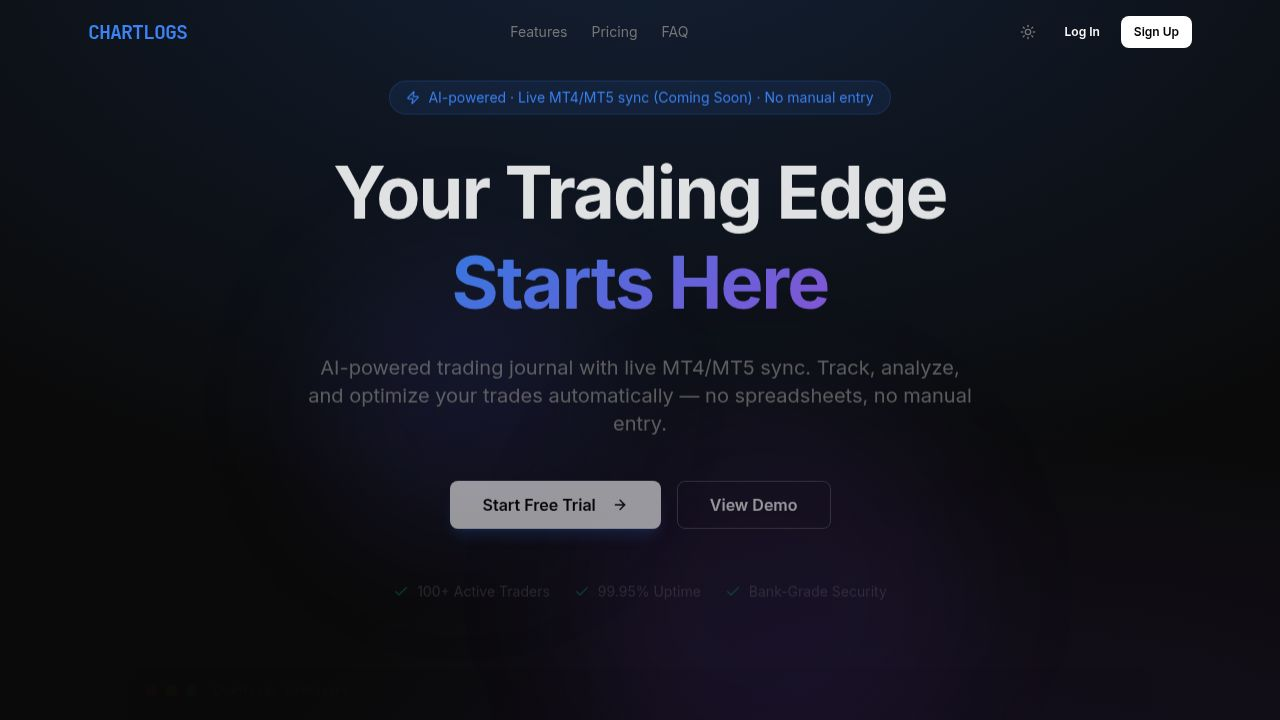
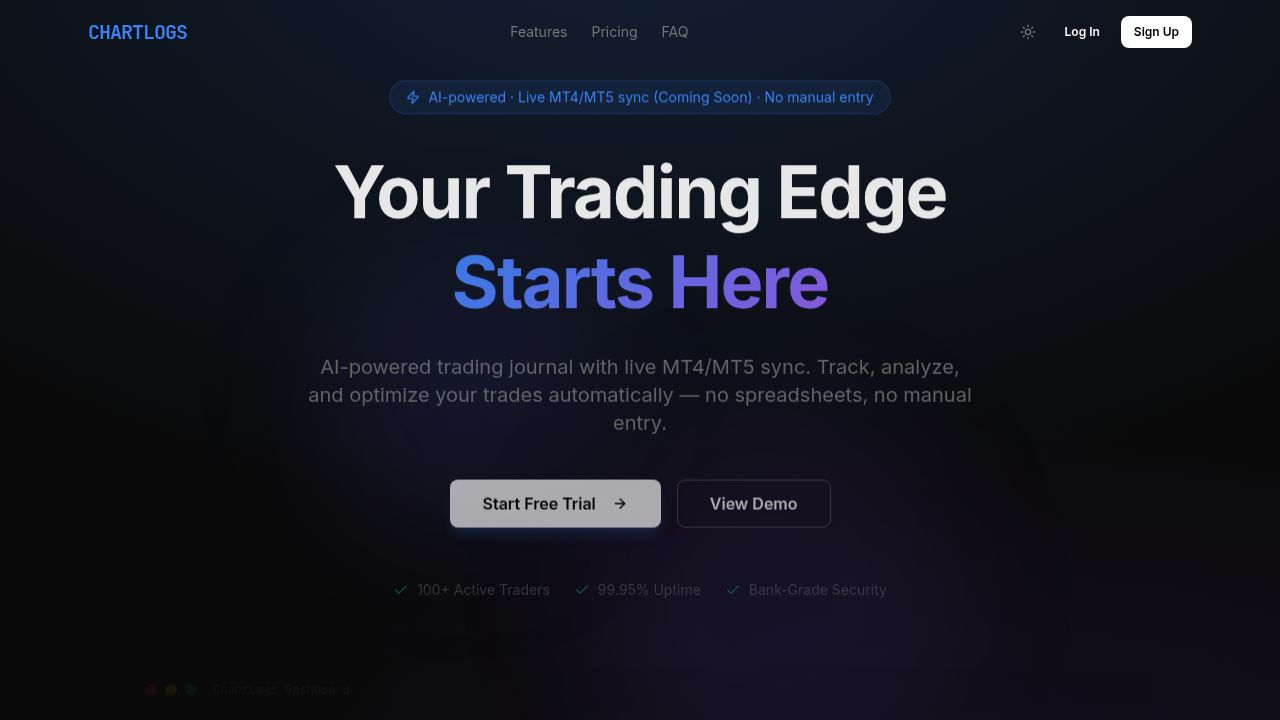
Redesign Analytics page (Task #44)
- Replaced the period dropdown with a segmented time-range control (Today/7D/30D/3M/1Y/All) using the existing Tabs component.
- Added a Winners/Losers/All outcome filter wired to the already-existing `filter` query param on GET /analytics/performance (no backend changes needed — schema, Zod validation, and OpenAPI spec already supported it).
- Restructured the top of the page into 4 prominent stat cards (Total P&L, Win Rate, Profit Factor, Expectancy) with larger typography.
- Consolidated remaining metrics (Winners, Losers, Breakeven, Total/Long/Short Trades, Max Drawdown, Max Consecutive Losses, Max DD Duration) into a compact quick-stats grid below the top cards.
- Built a new EquityDrawdownChart component: a single chart card with a toggle between "Equity Curve" (area chart) and "Drawdown" (area chart) views, using the equityCurve/drawdown arrays already returned by the performance endpoint.
- Preserved all other existing sections unchanged: by symbol, by day, by tag, by emotion, by strategy, by session, checklist compliance, win/loss/breakeven donut, R-multiples, streak tracker, profit factor trend, hour-of-day heatmap, and the AI Pattern Insights panel.

Verification:
- `pnpm --filter @user/chartlogs run typecheck` passes.
- Full `pnpm run typecheck` passes for all artifacts except a pre-existing, unrelated failure in `scripts/src/update-demo-password.ts` (missing @user for bcryptjs/pg) — not touched by this task.
[…]

diff --git a/artifacts/chartlogs/src/pages/Analytics.tsx b/artifacts/chartlogs/src/pages/Analytics.tsx
@@ -25,6 +25,7 @@ import {
   getGetAnalyticsStreaksQueryKey,
   getGetAnalyticsProfitFactorTrendQueryKey,
   GetPerformancePeriod,
+  GetPerformanceFilter,
   GetAnalyticsByDayPeriod,
   GetAnalyticsBySymbolPeriod,
   useGetAiStatus,
@@ -37,7 +38,7 @@ import { useQueryClient } from "@tanstack/react-query";
 import { useAccount } from "@/contexts/AccountContext";
 import { formatMoney } from "@/lib/format";
 import { Card, CardContent, CardHeader, CardTitle } from "@/components/ui/card";
-import { Select, SelectContent, SelectItem, SelectTrigger, SelectValue } from "@/components/ui/select";
+import { Tabs, TabsList, TabsTrigger } from "@/components/ui/tabs";
 import { Input } from "@/components/ui/input";
 import { Spinner } from "@/components/ui/spinner";
 import { Button } from "@/components/ui/button";
@@ -45,19 +46,107 @@ import { Bot, TrendingUp, Lock, AlertTriangle, DollarSign, Activity, Target, Zap
 import { SafeMarkdown } from "@/components/SafeMarkdown";
 import {
   BarChart, Bar, XAxis, YAxis, CartesianGrid, Tooltip, ResponsiveContainer,
-  PieChart, Pie, Cell, LineChart, Line, ReferenceLine, Legend,
+  PieChart, Pie, Cell, LineChart, Line, ReferenceLine, Legend, AreaChart, Area,
 } from "recharts";
 
 const COLORS = ["#3B82F6", "#10B981", "#F59E0B", "#EF4444", "#8B5CF6", "#EC4899", "#06B6D4"];
 const DAY_SHORT = ["Sun", "Mon", "Tue", "Wed", "Thu", "Fri", "Sat"];
 
-function MetricCard({ label, value, sub }: { label: string; value: string; sub?: string }) {
+const PERIOD_OPTIONS: { value: GetPerformancePeriod; label: string }[] = [
+  { value: "today", label: "Today" },
+  { value: "7d", label: "7D" },
+  { value: "30d", label: "30D" },
+  { value: "3m", label: "3M" },
+  { value: "1y", label: "1Y" },
+  { value: "all", label: "All" },
+];
+
+const OUTCOME_OPTIONS: { value: GetPerformanceFilter; label: string }[] = [
+  { value: "all", label: "All" },
+  { value: "winners", label: "Winners" },
+  { value: "losers", label: "Losers" },
+];
+
+function MetricCard({ label, value, sub, prominent }: { label: string; value: string; sub?: string; prominent?: boolean }) {
   return (
     <Card>
-      <CardContent className="pt-6">
+      <CardContent className={prominent ? "pt-6" : "pt-4 pb-4"}>
         <p className="text-xs text-muted-foreground font-medium uppercase tracking-widest">{label}</p>
-        <p className="text-2xl font-bold font-mono mt-1">{value}</p>
+        <p className={prominent ? "text-3xl font-bold font-mono mt-1.5" : "text-xl font-bold font-mono mt-1"}>{value}</p>
         {sub && <p className="text-xs text-muted-foreground mt-1">{sub}</p>}
+      </CardContent>
+    </Card>
+  );
+}
+
+function EquityDrawdownChart({
+  equityCurve, drawdown,
+}: {
+  equityCurve: { date: string; equity: number; pnl: number }[];
+  drawdown: { date: string; drawdown: number }[];
+}) {
+  const [view, setView] = useState<"equity" | "drawdown">("equity");
+  const hasData = view === "equity" ? equityCurve.length > 0 : drawdown.length > 0;
+
+  return (
+    <Card>
+      <CardHeader>
+        <div className="flex items-center justify-between gap-4 flex-wrap">
+          <CardTitle>{view === "equity" ? "Equity Curve" : "Drawdown"}</CardTitle>
+          <Tabs value={view} onValueChange={(v) => setView(v as "equity" | "drawdown")}>
+            <TabsList className="h-8">
+              <TabsTrigger value="equity" className="text-xs px-3 py-1">Equity Curve</TabsTrigger>
+              <TabsTrigger value="drawdown" className="text-xs px-3 py-1">Drawdown</TabsTrigger>
+            </TabsList>
+          </Tabs>
+        </div>
+      </CardHeader>
+      <CardContent>
+        {!hasData ? (
+          <div className="flex items-center justify-center h-[260px] text-sm text-muted-foreground">
+            No data for this selection
+          </div>
+        ) : view === "equity" ? (
+          <ResponsiveContainer width="100%" height={260}>
+            <AreaChart data={equityCurve} margin={{ top: 8, right: 16, left: 0, bottom: 0 }}>
+              <defs>
+                <linearGradient id="equityGradient" x1="0" y1="0" x2="0" y2="1">
+                  <stop offset="5%" stopColor="#3B82F6" stopOpacity={0.35} />
+                  <stop offset="95%" stopColor="#3B82F6" stopOpacity={0} />
+                </linearGradient>
+              </defs>
+              <CartesianGrid strokeDasharray="3 3" stroke="#1F2937" vertical={false} />
+              <XAxis dataKey="date" stroke="#6B7280" fontSize={10} tickLine={false} axisLine={false} />
+              <YAxis stroke="#6B7280" fontSize={10} tickLine={false} axisLine={false} tickFormatter={(v) => `$${v}`} />
+              <Tooltip
+                contentStyle={{ backgroundColor: '#0D1117', borderColor: '#1F2937', color: '#F9FAFB', borderRadius: 8 }}
+                formatter={(v: number) => [formatMoney(v), "Equity"]}
+              />
+              <ReferenceLine y={0} stroke="#6B7280" strokeDasharray="4 4" />
+              <Area type="monotone" dataKey="equity" stroke="#3B82F6" strokeWidth={2} fill="url(#equityGradient)" />
+            </AreaChart>
+          </ResponsiveContainer>
+        ) : (
+          <ResponsiveContainer width="100%" height={260}>
+            <AreaChart data={drawdown} margin={{ top: 8, right: 16, left: 0, bottom: 0 }}>
+              <defs>
+                <linearGradient id="drawdownGradient" x1="0" y1="0" x2="0" y2="1">
+                  <stop offset="5%" stopColor="#EF4444" stopOpacity={0} />
+                  <stop offset="95%" stopColor="#EF4444" stopOpacity={0.35} />
+                </linearGradient>
+              </defs>
+              <CartesianGrid strokeDasharray="3 3" stroke="#1F2937" vertical={false} />
+              <XAxis dataKey="date" stroke="#6B7280" fontSize={10} tickLine={false} axisLine={false} />
+              <YAxis stroke="#6B7280" fontSize={10} tickLine={false} axisLine={false} tickFormatter={(v) => `${v}%`} />
+              <Tooltip
+                contentStyle={{ backgroundColor: '#0D1117', borderColor: '#1F2937', color: '#F9FAFB', borderRadius: 8 }}
+                formatter={(v: number) => [`${v.toFixed(2)}%`, "Drawdown"]}
+              />
+              <ReferenceLine y={0} stroke="#6B7280" strokeDasharray="4 4" />
+              <Area type="monotone" dataKey="drawdown" stroke="#EF4444" strokeWidth={2} fill="url(#drawdownGradient)" />
+            </AreaChart>
+          </ResponsiveContainer>
+        )}
       </CardContent>
     </Card>
   );
@@ -65,6 +154,7 @@ function MetricCard({ label, value, sub }: { label: string; value: string; sub?:
 
 export default function Analytics() {
   const [period, setPeriod] = useState<GetPerformancePeriod>("all");
+  const [outcomeFilter, setOutcomeFilter] = useState<GetPerformanceFilter>("all");
   const [dayPeriod] = useState<GetAnalyticsByDayPeriod>("all");
   const [symPeriod] = useState<GetAnalyticsBySymbolPeriod>("all");
   const [strategyFilter, setStrategyFilter] = useState("");
@@ -72,8 +162,8 @@ export default function Analytics() {
   const acctParam = activeAccountId ?? undefined;
 
   const { data: perf, isLoading: perfLoading } = useGetPerformance(
-    { period, accountId: acctParam },
-    { query: { queryKey: getGetPerformanceQueryKey({ period, accountId: acctParam }) } }
+    { period, filter: outcomeFilter, accountId: acctParam },
+    { query: { queryKey: getGetPerformanceQueryKey({ period, filter: outcomeFilter, accountId: acctParam }) } }
   );
   const { data: bySymbol } = useGetAnalyticsBySymbol(
     { period: symPeriod, accountId: acctParam },
@@ -125,50 +215,52 @@ export default function Analytics() {
 
   return (
     <div className="space-y-6">
-      <div className="flex items-center justify-between">
+      <div className="flex items-center justify-between flex-wrap gap-4">
         <div>
           <h1 className="text-3xl font-bold tracking-tight">Analytics</h1>
           <p className="text-sm text-muted-foreground mt-1">Deep insights into your trading performance</p>
         </div>
-        <Select value={period} onValueChange={(v: GetPerformancePeriod) => setPeriod(v)}>
-          <SelectTrigger className="w-[150px]">
-            <SelectValue />
-          </SelectTrigger>
-          <SelectContent>
-            <SelectItem value="today">Today</SelectItem>
-            <SelectItem value="7d">Past 7 Days</SelectItem>
-            <SelectItem value="30d">Past 30 Days</SelectItem>
-            <SelectItem value="3m">Past 3 Months</SelectItem>
-            <SelectItem value="1y">Past Year</SelectItem>
-            <SelectItem value="all">All Time</SelectItem>
-          </SelectContent>
-        </Select>
+        <div className="flex items-center gap-3 flex-wrap">
+          <Tabs value={outcomeFilter} onValueChange={(v) => setOutcomeFilter(v as GetPerformanceFilter)}>
+            <TabsList>
+              {OUTCOME_OPTIONS.map((o) => (
+                <TabsTrigger key={o.value} value={o.value} className="text-xs px-3">{o.label}</TabsTrigger>
+              ))}
+            </TabsList>
+          </Tabs>
+          <Tabs value={period} onValueChange={(v) => setPeriod(v as GetPerformancePeriod)}>
+            <TabsList>
+              {PERIOD_OPTIONS.map((o) => (
+                <TabsTrigger key={o.value} value={o.value} className="text-xs px-3">{o.label}</TabsTrigger>
+              ))}
+            </TabsList>
+          </Tabs>
+        </div>
       </div>
 
       {perfLoading ? (
         <div className="flex justify-center py-20"><Spinner /></div>
       ) : perf ? (
         <>
-          <div className="grid gap-4 grid-cols-2 md:grid-cols-3 lg:grid-cols-6">
-            <MetricCard label="Total P&L" value={formatMoney(perf.totalPnl)} />
-            <MetricCard label="Win Rate" value={`${perf.winRate.toFixed(1)}%`} />
-            <MetricCard label="Profit Factor" value={perf.profitFactor?.toFixed(2) ?? "—"} />
-            <MetricCard label="Expectancy" value={formatMoney(perf.expectancy)} />
+          <div className="grid gap-4 grid-cols-2 md:grid-cols-4">
+            <MetricCard prominent label="Total P&L" value={formatMoney(perf.totalPnl)} />
+            <MetricCard prominent label="Win Rate" value={`${perf.winRate.toFixed(1)}%`} />
+            <MetricCard prominent label="Profit Factor" value={perf.profitFactor?.toFixed(2) ?? "—"} />
+            <MetricCard prominent label="Expectancy" value={formatMoney(perf.expectancy)} sub="avg P&L per trade" />
+          </div>
+          <div className="grid gap-3 grid-cols-2 md:grid-cols-4">
             <MetricCard label="Winners" value={String(perf.winners)} sub="closed profitable" />
             <MetricCard label="Losers" value={String(perf.losers)} sub="closed at loss" />
-          </div>
-          <div className="grid gap-4 grid-cols-2 md:grid-cols-4">
+            <MetricCard label="Breakeven" value={String(perf.breakeven ?? 0)} sub="no gain/loss" />
             <MetricCard label="Total Trades" value={String(perf.totalTrades)} />
             <MetricCard label="Long Trades" value={String(perf.longTrades)} sub={perf.longWinRate != null ? `${perf.longWinRate.toFixed(0)}% WR` : undefined} />
             <MetricCard label="Short Trades" value={String(perf.shortTrades)} sub={perf.shortWinRate != null ? `${perf.shortWinRate.toFixed(0)}% WR` : undefined} />
             <MetricCard label="Max Drawdown" value={perf.drawdown?.length > 0 ? formatMoney(Math.min(...perf.drawdown.map(d => d.drawdown))) : "—"} />
-          </div>
-          <div className="grid gap-4 grid-cols-2 md:grid-cols-4">
-            <MetricCard label="Breakeven" value={String(perf.breakeven ?? 0)} sub="no gain/loss" />
             <MetricCard label="Max Consec. Losses" value={String(perf.maxConsecutiveLosses ?? 0)} sub="in a row" />
             <MetricCard label="Max DD Duration" value={perf.maxDrawdownDuration ? `${perf.maxDrawdownDuration}d` : "—"} sub="calendar days" />
-            <MetricCard label="Expectancy / Trade" value={formatMoney(perf.expectancy)} sub="avg P&L per trade" />
           </div>
+
+          <EquityDrawdownChart equityCurve={perf.equityCurve ?? []} drawdown={perf.drawdown ?? []} />
         </>
       ) : null}
 